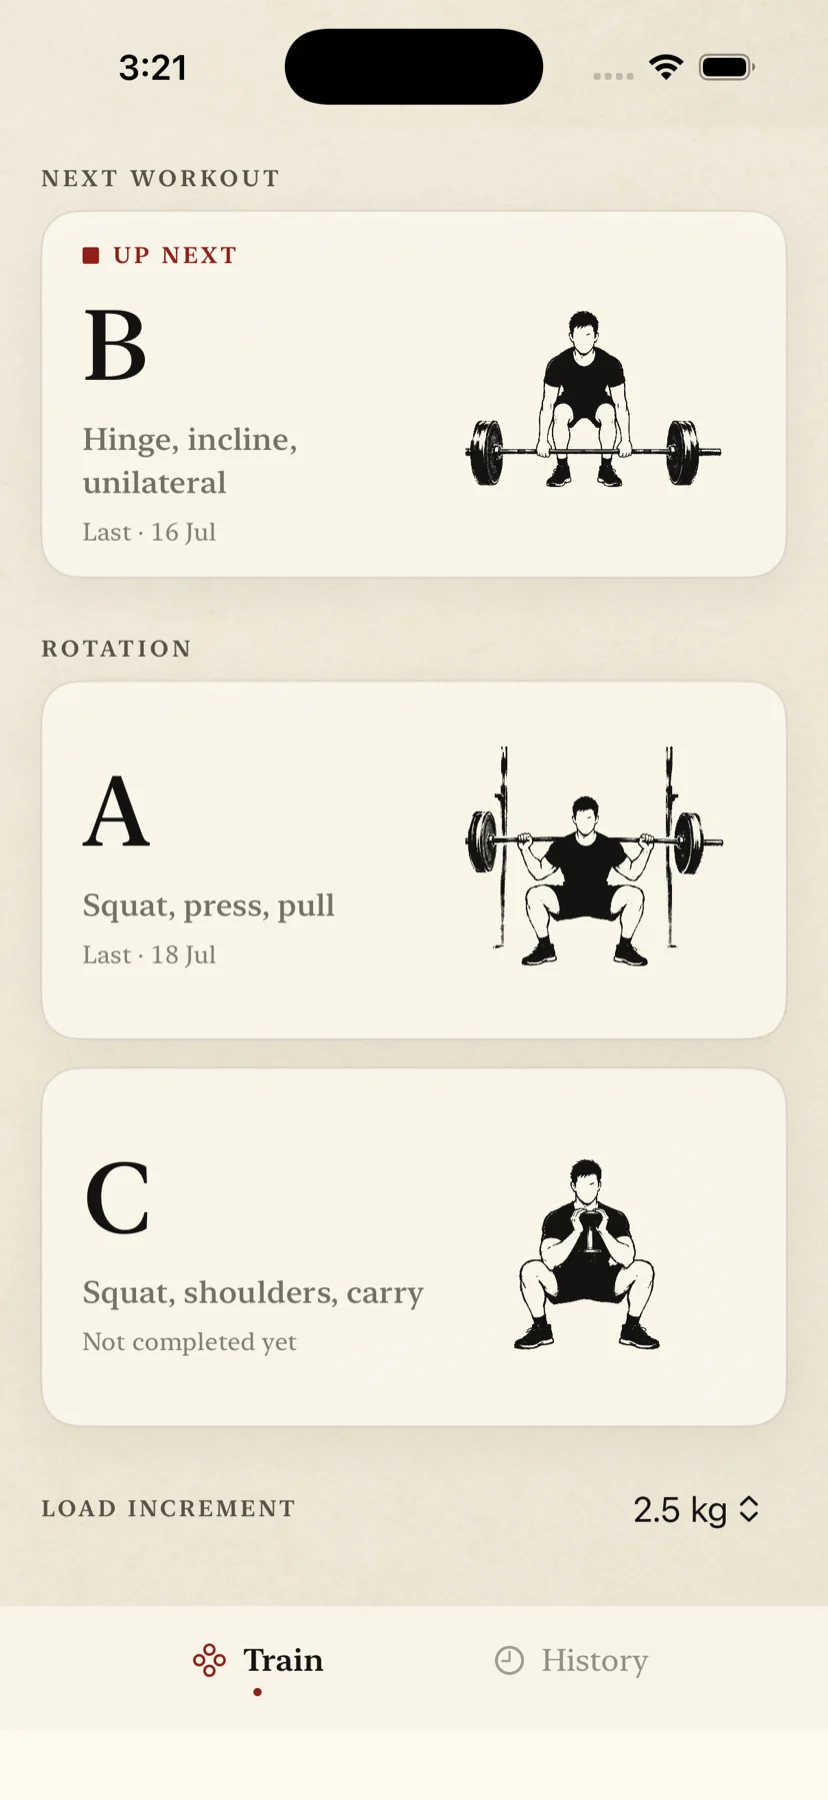
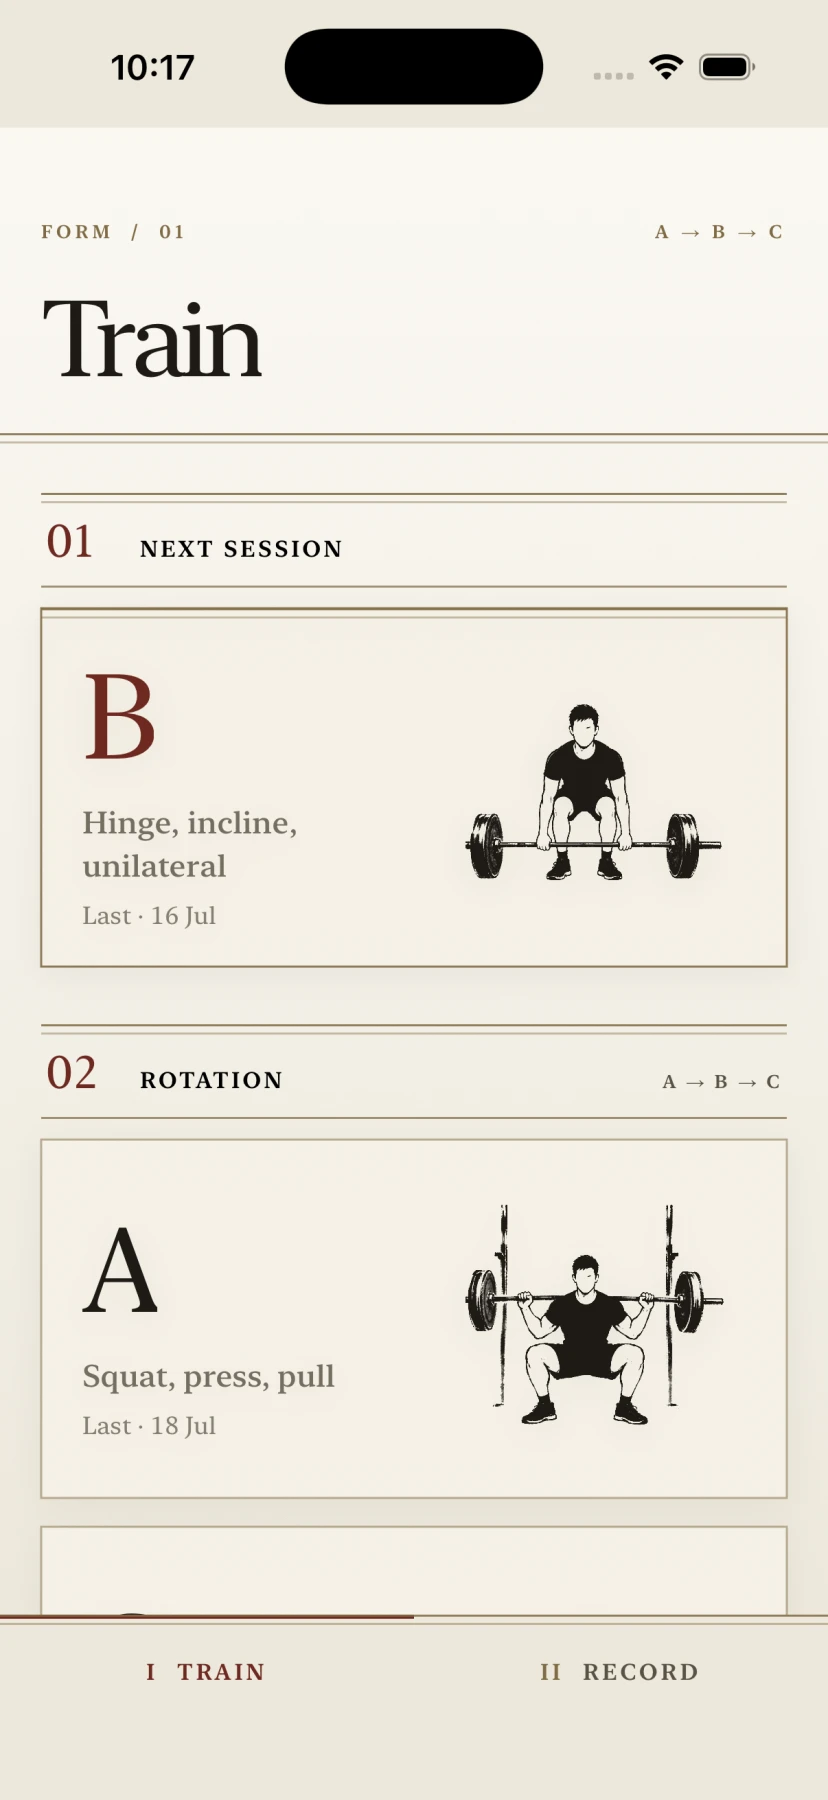
Refine session terminology and update app branding

diff --git a/Form/RootView.swift b/Form/RootView.swift
@@ -243,7 +243,7 @@ private enum AppTab: CaseIterable, Hashable {
     var title: String {
         switch self {
         case .train: "Train"
-        case .history: "History"
+        case .history: "Record"
         }
     }
 
@@ -382,11 +382,11 @@ private struct RoutineListView: View {
                         } label: {
                             HStack {
                                 VStack(alignment: .leading, spacing: 5) {
-                                    Text("00 / ACTIVE SESSION")
+                                    Text("SESSION IN PROGRESS")
                                         .font(.system(size: 9, weight: .semibold, design: .serif))
                                         .tracking(1.5)
                                         .foregroundStyle(InkPalette.cinnabar)
-                                    Text("Resume \(resumeRoutine.name)")
+                                    Text(resumeRoutine.name)
                                         .font(.system(.title3, design: .serif, weight: .semibold))
                                         .foregroundStyle(InkPalette.ink)
                                     Text(resumeDetail)
@@ -394,7 +394,7 @@ private struct RoutineListView: View {
                                         .foregroundStyle(InkPalette.softInk)
                                 }
                                 Spacer()
-                                Text("RESUME")
+                                Text("CONTINUE")
                                     .font(.system(size: 10, weight: .semibold, design: .serif))
                                     .tracking(1.4)
                                     .foregroundStyle(InkPalette.cinnabar)
@@ -410,7 +410,7 @@ private struct RoutineListView: View {
                         .padding(.bottom, 24)
                     }
 
-                    RawSectionHeader(index: "01", title: "NEXT WORKOUT", trailing: "UP NEXT")
+                    RawSectionHeader(index: "01", title: "NEXT SESSION")
                         .padding(.bottom, 10)
 
                     NavigationLink(value: nextRoutine) {
@@ -423,7 +423,7 @@ private struct RoutineListView: View {
                     .buttonStyle(PressableButtonStyle())
                     .padding(.bottom, 28)
 
-                    RawSectionHeader(index: "02", title: "ROTATION", trailing: "CONTINUE")
+                    RawSectionHeader(index: "02", title: "ROTATION", trailing: "A → B → C")
                         .padding(.bottom, 10)
 
                     LazyVStack(spacing: 14) {
@@ -522,18 +522,6 @@ private struct RoutineCard: View {
     var body: some View {
         HStack(spacing: 12) {
             VStack(alignment: .leading, spacing: 8) {
-                if isRecommended {
-                    HStack(spacing: 7) {
-                        RoundedRectangle(cornerRadius: 1)
-                            .fill(InkPalette.cinnabar)
-                            .frame(width: 8, height: 8)
-                        Text("UP NEXT")
-                            .font(.caption2.weight(.semibold))
-                            .tracking(1.6)
-                            .foregroundStyle(InkPalette.cinnabar)
-                    }
-                }
-
                 Text(routine.id)
                     .font(.system(size: 58, weight: .regular, design: .serif))
                     .tracking(-2)
@@ -580,7 +568,7 @@ private struct RoutineCard: View {
     }
 
     private var lastCompletedText: String {
-        guard let lastCompleted else { return "Not completed yet" }
+        guard let lastCompleted else { return "No previous session" }
         return "Last · \(lastCompleted.formatted(.dateTime.day().month(.abbreviated)))"
     }
 }
@@ -628,7 +616,7 @@ struct RoutineDetailView: View {
             )
         }
         .safeAreaInset(edge: .bottom) {
-            InkPrimaryButton(title: "Begin \(routine.name)") {
+            InkPrimaryButton(title: "Begin session") {
                 showingWorkout = true
             }
             .padding(.horizontal, 20)

diff --git a/Form/HistoryView.swift b/Form/HistoryView.swift
@@ -12,13 +12,13 @@ struct HistoryView: View {
 
             if workouts.isEmpty {
                 VStack(spacing: 0) {
-                    RawScreenTitle(index: "02", title: "History", detail: "RECORD")
+                    RawScreenTitle(index: "02", title: "Record", detail: "SESSIONS")
                     EmptyHistoryView()
                         .frame(maxHeight: .infinity)
                 }
             } else {
                 List {
-                    RawScreenTitle(index: "02", title: "History", detail: "RECORD")
+                    RawScreenTitle(index: "02", title: "Record", detail: "SESSIONS")
                         .listRowBackground(Color.clear)
                         .listRowSeparator(.hidden)
                         .listRowInsets(EdgeInsets())
@@ -56,7 +56,7 @@ struct HistoryView: View {
                             .tint(InkPalette.cinnabar)
                         }
                         .contextMenu {
-                            Button("Delete workout", role: .destructive) {
+                            Button("Delete session", role: .destructive) {
                                 delete(workout)
                             }
                         }
@@ -68,7 +68,7 @@ struct HistoryView: View {
             }
         }
         .toolbar(.hidden, for: .navigationBar)
-        .alert("Couldn’t delete workout", isPresented: Binding(
+        .alert("Couldn’t delete session", isPresented: Binding(
             get: { saveErrorMessage != nil },
             set: { if !$0 { saveErrorMessage = nil } }
         )) {
@@ -86,7 +86,7 @@ struct HistoryView: View {
             try modelContext.save()
         } catch {
             modelContext.rollback()
-            saveErrorMessage = "The workout remains in History. Try again."
+            saveErrorMessage = "The session remains in the record. Try again."
         }
     }
 }
@@ -104,12 +104,12 @@ private struct EmptyHistoryView: View {
                     )
                 )
 
-            Text("No workouts yet")
+            Text("No sessions recorded")
                 .font(.system(size: 30, weight: .semibold, design: .serif))
                 .foregroundStyle(InkPalette.ink)
             InkDivider()
                 .frame(width: 120)
-            Text("Completed workouts will appear here.")
+            Text("Completed sessions will appear here.")
                 .font(.system(.body, design: .serif))
                 .foregroundStyle(InkPalette.softInk)
                 .multilineTextAlignment(.center)
@@ -204,7 +204,7 @@ private struct HistoryConsistencyView: View {
 
             VStack(alignment: .leading, spacing: 12) {
                 HStack(alignment: .firstTextBaseline) {
-                    Text("12-WEEK RHYTHM")
+                    Text("TWELVE-WEEK RECORD")
                         .font(.caption2.weight(.semibold))
                         .tracking(1.6)
                         .foregroundStyle(InkPalette.softInk)
@@ -450,7 +450,7 @@ private struct HistoryWeeklySummary: View {
             }
 
             HStack {
-                Text("Next · \(nextRoutineID)")
+                Text("Next session · \(nextRoutineID)")
                 Spacer()
                 Text("\(prCount) PR\(prCount == 1 ? "" : "s")")
             }

diff --git a/Form/ActiveWorkoutView.swift b/Form/ActiveWorkoutView.swift
@@ -101,8 +101,8 @@ struct ActiveWorkoutView: View {
             }
         }
         .toolbar(.hidden, for: .navigationBar)
-        .confirmationDialog("Discard this workout?", isPresented: $showingCancelConfirmation) {
-            Button("Discard workout", role: .destructive, action: discardWorkout)
+        .confirmationDialog("Discard this session?", isPresented: $showingCancelConfirmation) {
+            Button("Discard session", role: .destructive, action: discardWorkout)
             Button("Keep training", role: .cancel) {}
         }
         .confirmationDialog(
@@ -119,7 +119,7 @@ struct ActiveWorkoutView: View {
                 showingCancelConfirmation = true
             }
         }
-        .alert("Couldn’t save workout", isPresented: Binding(
+        .alert("Couldn’t save session", isPresented: Binding(
             get: { saveErrorMessage != nil },
             set: { if !$0 { saveErrorMessage = nil } }
         )) {
@@ -203,6 +203,7 @@ struct ActiveWorkoutView: View {
         }
         .safeAreaInset(edge: .top, spacing: 0) {
             ActiveWorkoutHeader(
+                index: routine.id,
                 progress: "\(completedMovementCount) of \(drafts.count) movements"
             ) {
                 showingCancelConfirmation = true
@@ -821,17 +822,18 @@ struct CardioEntryEditor: View {
 }
 
 private struct ActiveWorkoutHeader: View {
+    let index: String
     let progress: String
     let close: () -> Void
 
     var body: some View {
         HStack(spacing: 0) {
-                Text("00")
+                Text(index)
                     .font(.system(size: 18, weight: .regular, design: .serif))
                     .foregroundStyle(InkPalette.cinnabar)
                     .frame(width: 52, height: 56)
                 VStack(alignment: .leading, spacing: 2) {
-                    Text("IN PROGRESS")
+                    Text("SESSION IN PROGRESS")
                         .font(.system(size: 10, weight: .semibold, design: .serif))
                         .tracking(1.5)
                         .foregroundStyle(InkPalette.ink)

diff --git a/index.html b/index.html
@@ -4,7 +4,7 @@
     <meta charset="UTF-8" />
     <meta name="viewport" content="width=device-width, initial-scale=1.0" />
     <meta name="theme-color" content="#e9e2d5" />
-    <link rel="icon" type="image/png" href="/form-icon.png" />
+    <link rel="icon" type="image/svg+xml" href="/form-icon.svg" />
     <link rel="apple-touch-icon" href="/form-icon.png" />
     <meta
       name="description"